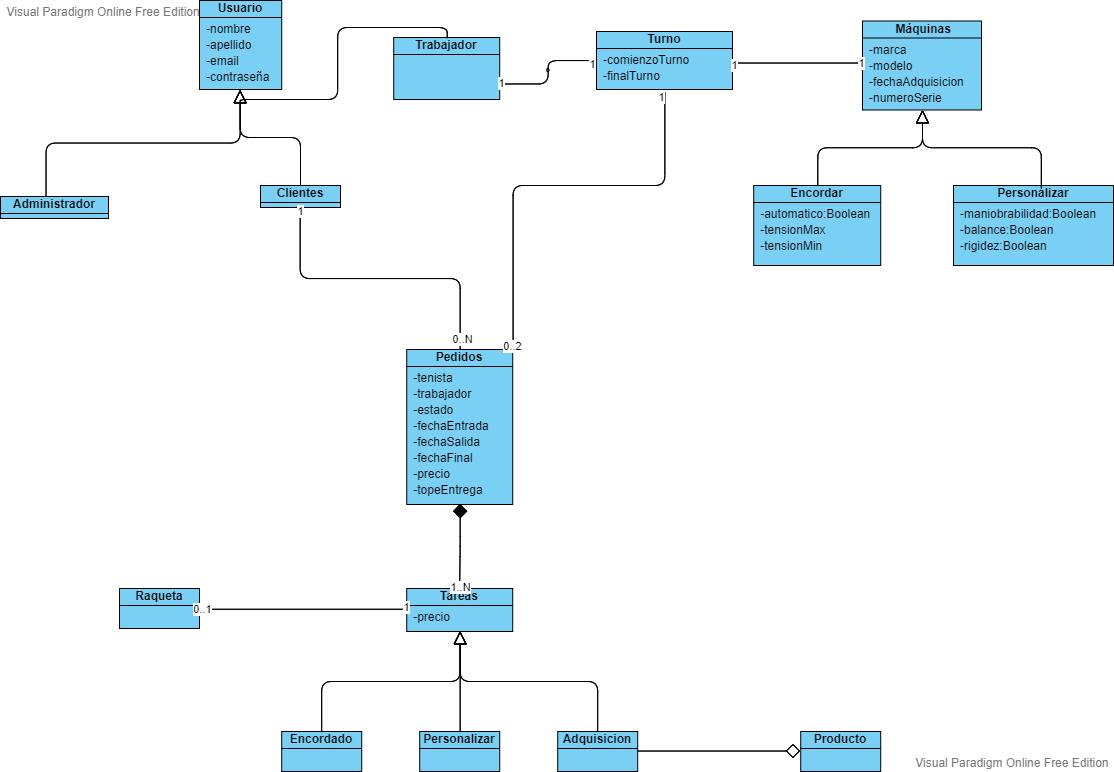
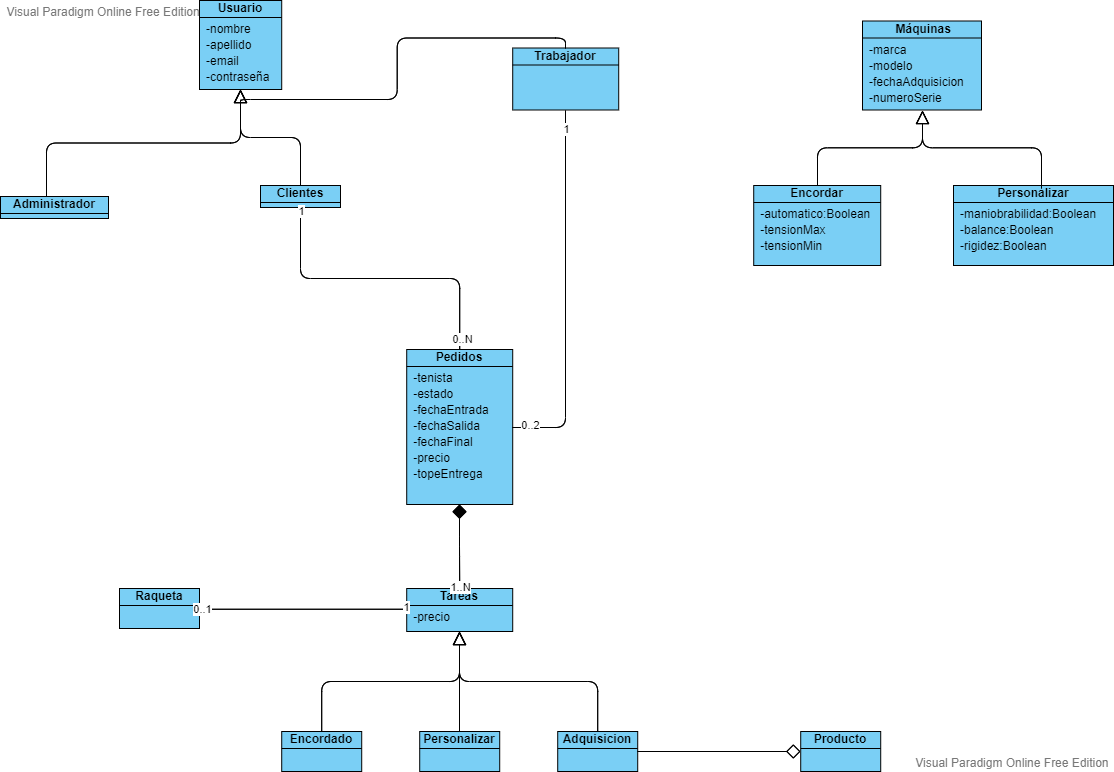
me obliga git

Changed region(s): [[0.3357, 0.0311, 0.6715, 0.1554], [0.3662, 0.4974, 0.4578, 0.6528]]

diff --git a/tennislab/src/main/kotlin/repositories/usuarios/TrabajadorRepositoryImpl.kt b/tennislab/src/main/kotlin/repositories/usuarios/TrabajadorRepositoryImpl.kt
@@ -5,6 +5,7 @@ import entities.TurnoDAO
 import entities.UsuarioDAO
 import entities.UsuarioTable
 import entities.usuarios.TrabajadorDAO
+import entities.usuarios.TrabajadorTable
 import models.usuarios.Trabajador
 import mu.KotlinLogging
 import org.jetbrains.exposed.sql.transactions.transaction
@@ -31,7 +32,7 @@ class TrabajadorRepositoryImpl: TrabajadorRepository {
      */
     override fun findByUUID(uuid: UUID): TrabajadorDAO? =transaction{
         logger.debug { "Buscando trabajador por uuid $uuid"}
-        TrabajadorDAO.find { UsuarioTable.uuid eq uuid }.firstOrNull()
+        TrabajadorDAO.find { TrabajadorTable.usuario eq uuid }.firstOrNull()
     }
 
 
@@ -40,7 +41,7 @@ class TrabajadorRepositoryImpl: TrabajadorRepository {
      */
     override fun add(item: Trabajador): TrabajadorDAO =transaction{
         logger.debug { "añadiendo trabajador: $item" }
-        val existe = TrabajadorDAO.find { UsuarioTable.uuid eq item.usuario.uuid!! }.firstOrNull()
+        val existe = TrabajadorDAO.find{TrabajadorTable.usuario eq item.usuario.uuid!!}.firstOrNull()
         existe?.let {
             update(item, existe)
         } ?: run {

diff --git a/tennislab/src/main/kotlin/entities/usuarios/TrabajadorTable.kt b/tennislab/src/main/kotlin/entities/usuarios/TrabajadorTable.kt
@@ -15,16 +15,16 @@ import org.jetbrains.exposed.dao.id.IntIdTable
 object TrabajadorTable: IntIdTable() {
     val usuario = reference("usuario",UsuarioTable)
     val administrador = bool("administrador")
-    val turno = reference("turno", TurnoTable)
+    //val turno = reference("turno", TurnoTable)
 }
 
 class TrabajadorDAO(id: EntityID<Int>) : IntEntity(id){
     companion object: IntEntityClass<TrabajadorDAO>(TrabajadorTable)
     var usuario by UsuarioDAO referencedOn TrabajadorTable.usuario
     var administrador by TrabajadorTable.administrador
-    var turno by TurnoDAO referencedOn TrabajadorTable.turno
+    //var turno by TurnoDAO referencedOn TrabajadorTable.turno
     override fun toString(): String {
-        return "Trabajador(usuario=$usuario, administrador=$administrador, turno=$turno)"
+        return "Trabajador(usuario=$usuario, administrador=$administrador)"
     }
 
 
